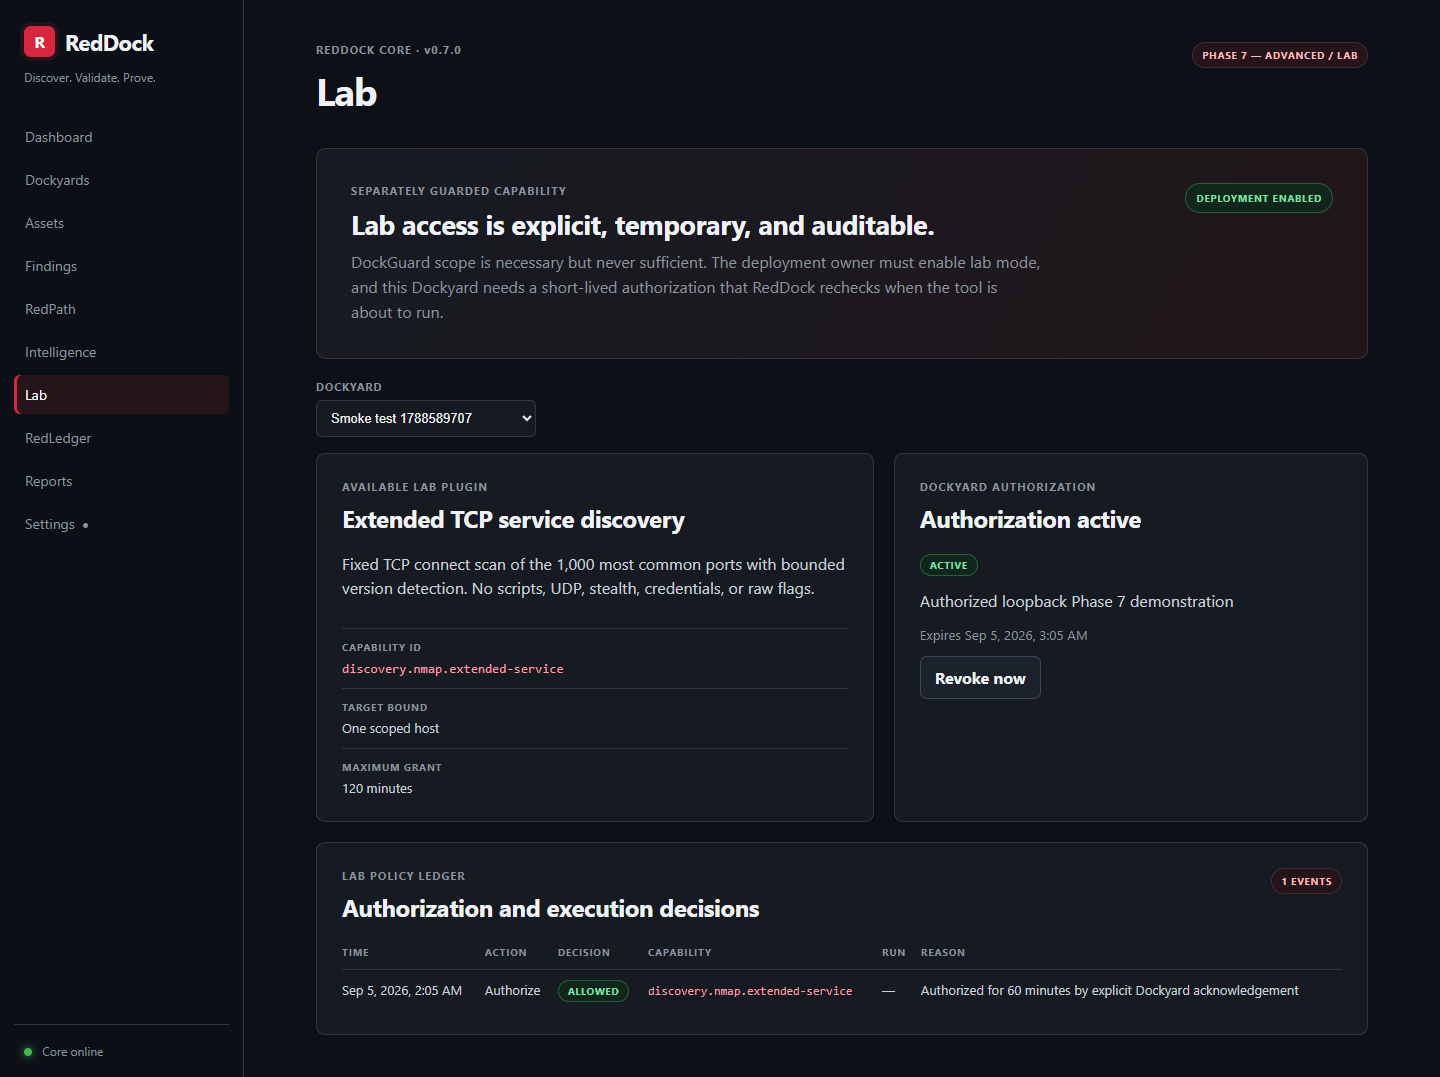
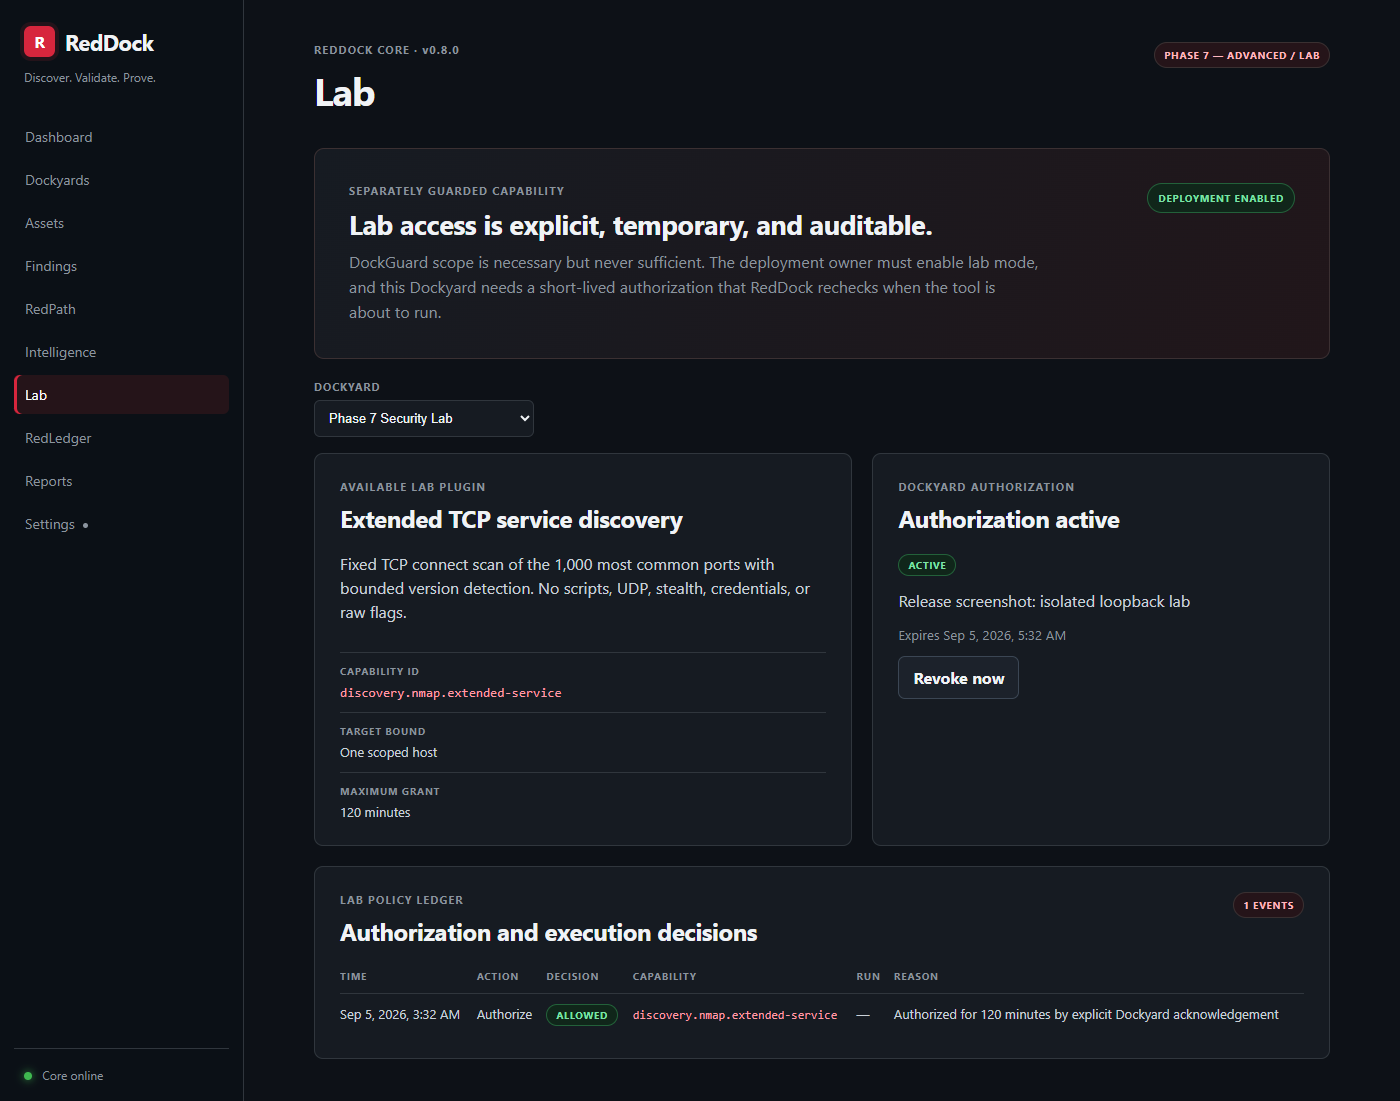
Prepare the v0.8.0 Phase 7 release

diff --git a/frontend/src/App.test.tsx b/frontend/src/App.test.tsx
@@ -376,7 +376,7 @@ function stubApi({
 
       if (path.endsWith("/health")) return json({ status: "healthy", service: "reddock-core" });
       if (path.endsWith("/version"))
-        return json({ name: "RedDock", version: "0.7.0", phase: "Phase 7 — Advanced / Lab" });
+        return json({ name: "RedDock", version: "0.8.0", phase: "Phase 7 — Advanced / Lab" });
       if (path.endsWith("/adapters")) return json(adapters);
       if (path.endsWith("/detectors")) return json(detectors);
       if (path.endsWith("/scope/evaluate")) return json(evaluation);

diff --git a/backend/tests/test_reporting.py b/backend/tests/test_reporting.py
@@ -93,7 +93,7 @@ def test_report_set_is_complete_hash_linked_and_portable(
     manifest = manifest_response.json()
     assert manifest["schema"] == "reddock.evidence-manifest/1"
     assert manifest["dockyard_id"] == dockyard_id
-    assert manifest["generator"]["version"] == "0.7.0"
+    assert manifest["generator"]["version"] == "0.8.0"
     assert len(manifest["scope_sha256"]) == 64
     assert manifest["skipped_findings"] == []
     assert manifest["file_count"] >= 6

diff --git a/backend/app/config.py b/backend/app/config.py
@@ -9,7 +9,7 @@ class Settings(BaseModel):
     """Runtime settings kept intentionally small for the local foundation."""
 
     app_name: str = "RedDock"
-    version: str = "0.7.0"
+    version: str = "0.8.0"
     phase: str = "Phase 7 — Advanced / Lab"
     database_url: str = "sqlite:///./data/reddock.db"
     evidence_dir: str = "./data/evidence"

diff --git a/README.md b/README.md
@@ -11,11 +11,11 @@ Container-native security assessment and validation platform with controlled exe
 [![Python](https://img.shields.io/badge/Python-3.13-3776AB?logo=python&logoColor=white)](https://www.python.org/)
 [![CI](https://github.com/chriswayneh/RedDock/actions/workflows/ci.yml/badge.svg?branch=master)](https://github.com/chriswayneh/RedDock/actions/workflows/ci.yml)
 [![License](https://img.shields.io/github/license/chriswayneh/RedDock)](LICENSE)
-[![Phase](https://img.shields.io/badge/phase-6%20Reporting-C1121F)](ROADMAP.md)
+[![Phase](https://img.shields.io/badge/phase-7%20Advanced%20%2F%20Lab-C1121F)](ROADMAP.md)
 
-**Current release:** [v0.7.0](https://github.com/chriswayneh/RedDock/releases/tag/v0.7.0) — Phase 6 Reporting
+**Current release:** [v0.8.0](https://github.com/chriswayneh/RedDock/releases/tag/v0.8.0) — Phase 7 Advanced / Lab
 
-**Development on `master`:** Phase 7 lab controls and data-only detector plugins are in progress.
+**Phase 7 is complete:** separately gated lab controls, data-only detector plugins, and portable policy provenance are published and security-reviewed.
 
 [Quick Start](#quick-start) · [Current Capabilities](#what-you-get) · [Architecture](#architecture) · [Security](#security-by-design) · [Roadmap](ROADMAP.md) · [Contributing](CONTRIBUTING.md)
 
@@ -245,6 +245,8 @@ docs/          Architecture decisions and project documentation
 
 ## Project Status
 
+**v0.8.0 delivers Phase 7 — Advanced / Lab:** a fixed single-host extended service-discovery profile behind independent deployment and short-lived Dockyard gates, an append-only policy ledger, bounded data-only detector manifests with content-addressed provenance, optional local Qwen3.5 through Ollama, and portable lab history in reports and DockPacks.
+
 **v0.7.0 delivers Phase 6 — Reporting:** deterministic technical and executive reports, a complete SHA-256 evidence manifest, and portable DockPack exports assembled only from verified retained artifacts. Unchanged Dockyard state produces byte-identical output, and reporting contacts neither a target nor a model.
 
 **v0.6.0 delivered Phase 5 — Intelligence:** opt-in local or cloud OpenAI-compatible advice, exact packet review before disclosure, separate approval, provider and prompt-version binding, strict output validation, and hashed input/output provenance. The model receives no tools and cannot change RedDock state.
@@ -261,7 +263,7 @@ docs/          Architecture decisions and project documentation
 
 **v0.1.0 delivered Phase 0 — Foundation:** a containerized React/FastAPI application, local Dockyard persistence, a dashboard, documentation, tests, and CI.
 
-**Next after v0.7.0: Phase 7 — Advanced / Lab.** Explicit lab-only capabilities and a broader plugin ecosystem remain planned and must be separately guarded. See the [roadmap](ROADMAP.md) for the complete phased plan.
+**Next after v0.8.0: Phase 8 — Production polish.** RBAC, optional PostgreSQL, scaling, release automation, ARM64 support, and production deployment hardening remain planned. See the [roadmap](ROADMAP.md) for the complete phased plan.
 
 ## Contributing and Security
 

diff --git a/ROADMAP.md b/ROADMAP.md
@@ -30,9 +30,9 @@ Optional local or cloud OpenAI-compatible analysis now produces remediation and 
 
 Technical and executive reports, evidence manifests, and portable DockPack exports are implemented. A report freezes one bounded Dockyard snapshot, re-verifies every database-referenced source artifact against its retained SHA-256, and produces deterministic Markdown, JSON, a manifest, and a byte-reproducible ZIP without contacting a target or model. Downloads are hash-checked again before delivery. Released as v0.7.0.
 
-## Phase 7 — Advanced / Lab
+## Completed — Phase 7: Advanced / Lab
 
-In progress on `master`. The first capability is a fixed, single-host extended
+The first capability is a fixed, single-host extended
 TCP service-discovery profile guarded by both deployment opt-in and a separate,
 short-lived per-Dockyard authorization. Authorization, requests, execution,
 denials, and revocation have their own audit ledger. The extension boundary is
@@ -40,8 +40,8 @@ also implemented as content-addressed, data-only detector manifests rather than
 arbitrary code plugins.
 
 Portable lab-audit provenance is included in reporting and DockPacks, and real
-Phase 7 screenshots are published. Completion additionally requires a final
-security review, the complete CI/Docker test matrix, and a v0.8.0 release.
+Phase 7 screenshots are published. The final security review and complete
+CI/Docker test matrix passed. Released as v0.8.0.
 
 ## Phase 8 — Production polish
 

diff --git a/SECURITY.md b/SECURITY.md
@@ -123,7 +123,8 @@ Do not open a public issue for a suspected security flaw. When GitHub Private Vu
 
 | Version | Supported |
 | --- | --- |
-| 0.7.x | Yes — current published release |
+| 0.8.x | Yes — current published release |
+| 0.7.x | No — superseded by 0.8.0 |
 | 0.6.x | No — superseded by 0.7.0 |
 | 0.5.x | No — superseded by 0.6.0 |
 | 0.4.x | No — superseded by 0.5.0 |

diff --git a/CHANGELOG.md b/CHANGELOG.md
@@ -2,7 +2,7 @@
 
 All notable changes to RedDock are documented here.
 
-## [Unreleased] — Phase 7 Advanced / Lab
+## [0.8.0] — 2026-09-05 — Phase 7 Advanced / Lab
 
 ### Added
 
